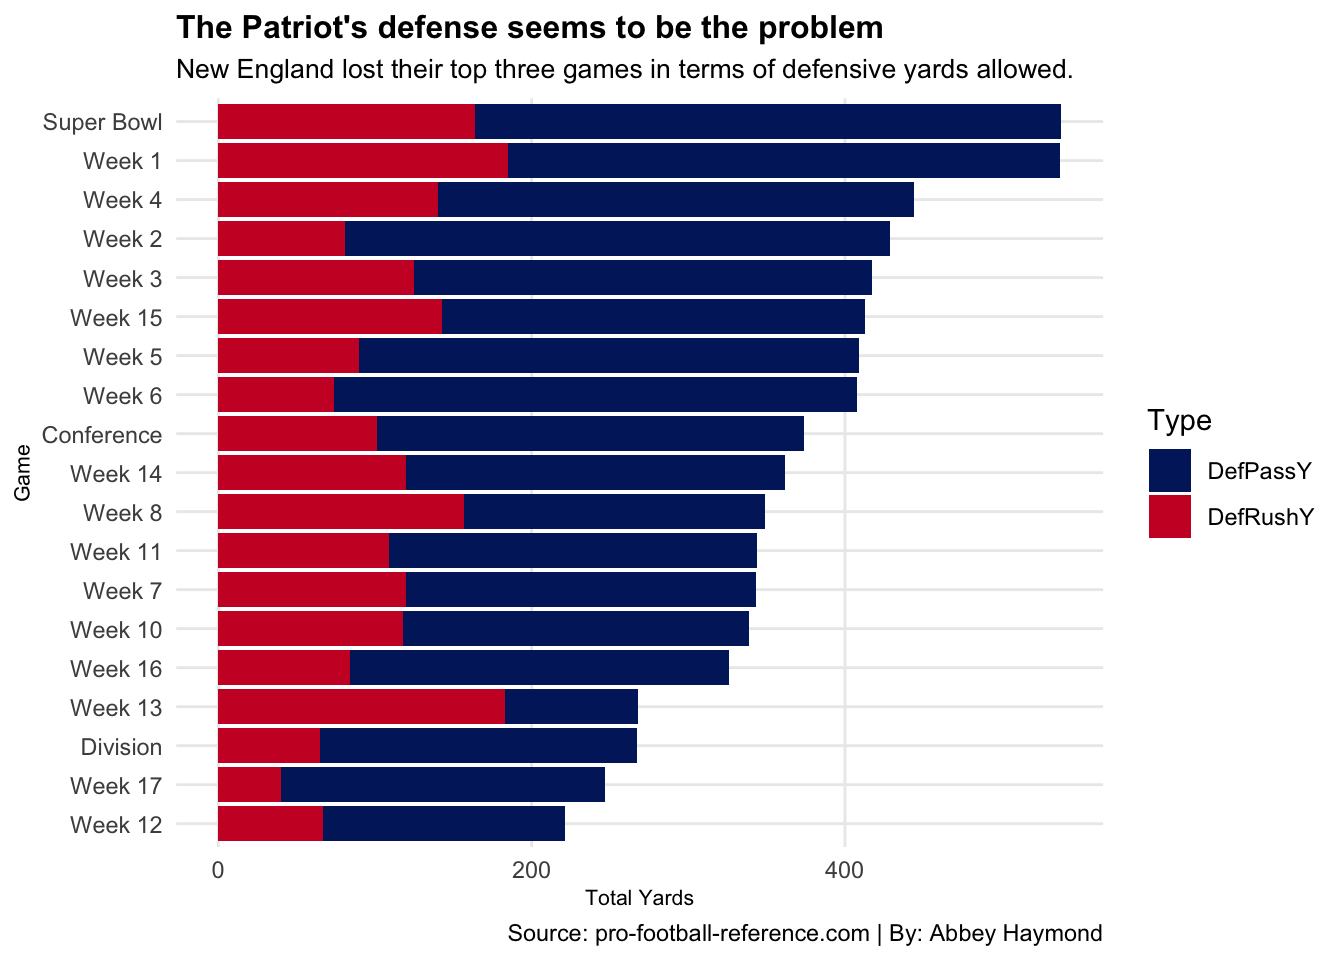
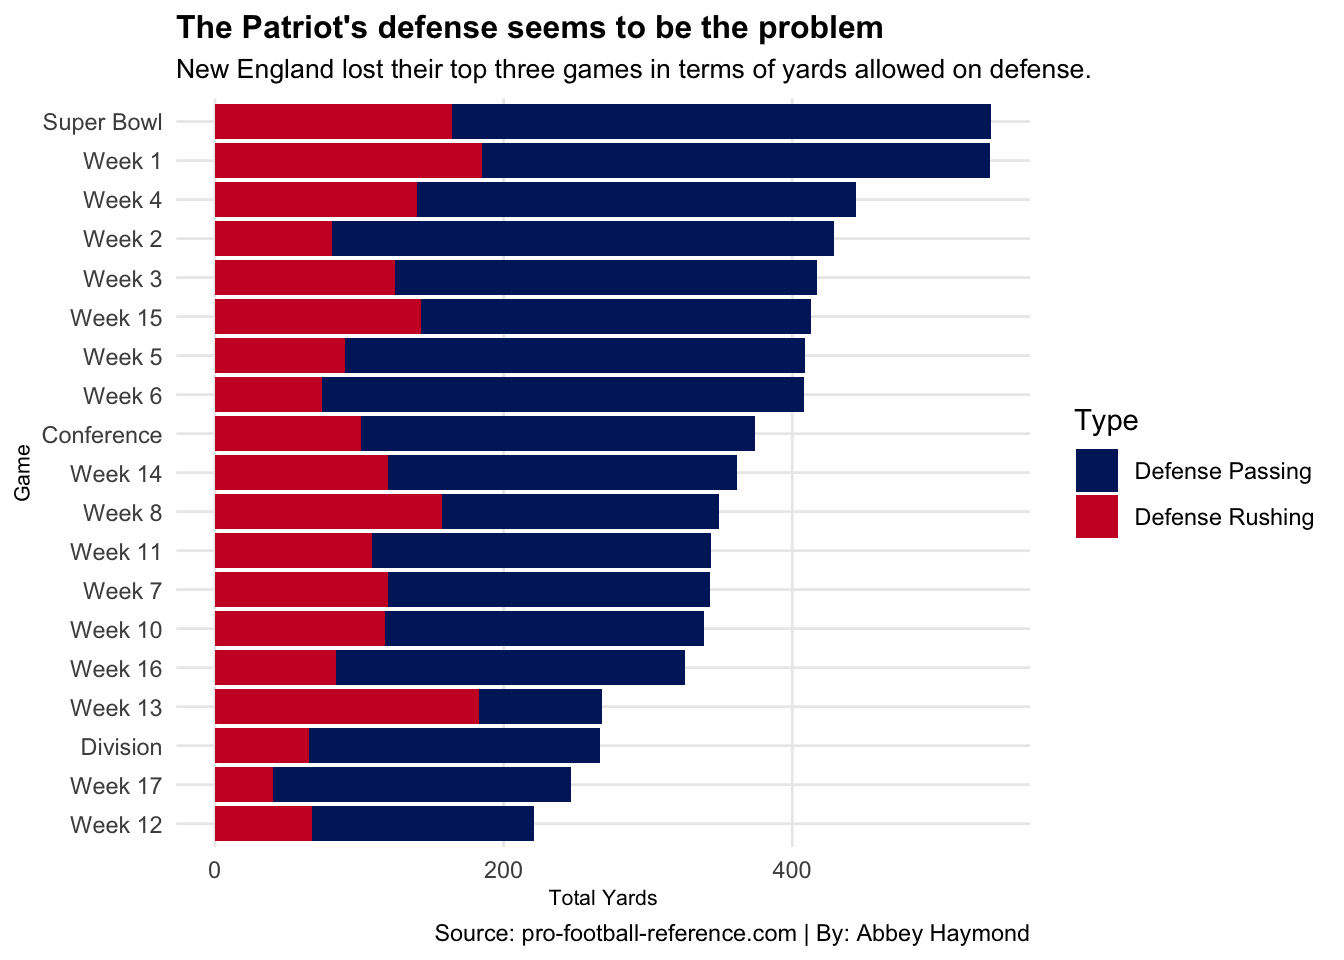
update

diff --git a/2021/04/02/patriots-in-super-bowl-2018/index.html b/2021/04/02/patriots-in-super-bowl-2018/index.html
@@ -81,11 +81,11 @@
 <p>The Patriots have been a powerhouse in the NFL for the past two decades. They have won six Super Bowl titles, and they looked like a team that was ready to claim another one during their 2017 season. Tom Brady had the most passing yards in a Super Bowl in 2018, so why was that not enough to lead his team to a victory?</p>
 <p>I took a look at their numbers on offense during the Super Bowl.</p>
 <pre class="r"><code>library(tidyverse)</code></pre>
-<pre><code>## ── Attaching packages ─────────────────────────────────────── tidyverse 1.3.0 ──</code></pre>
+<pre><code>## ── Attaching packages ─────────────────────────────────────── tidyverse 1.3.1 ──</code></pre>
 <pre><code>## ✓ ggplot2 3.3.3     ✓ purrr   0.3.4
-## ✓ tibble  3.0.5     ✓ dplyr   1.0.3
-## ✓ tidyr   1.1.2     ✓ stringr 1.4.0
-## ✓ readr   1.4.0     ✓ forcats 0.5.0</code></pre>
+## ✓ tibble  3.1.0     ✓ dplyr   1.0.5
+## ✓ tidyr   1.1.3     ✓ stringr 1.4.0
+## ✓ readr   1.4.0     ✓ forcats 0.5.1</code></pre>
 <pre><code>## ── Conflicts ────────────────────────────────────────── tidyverse_conflicts() ──
 ## x dplyr::filter() masks stats::filter()
 ## x dplyr::lag()    masks stats::lag()</code></pre>
@@ -111,8 +111,13 @@ library(kableExtra)</code></pre>
 ##   Result = col_character(),
 ##   SuperBowl = col_character()
 ## )</code></pre>
-<pre class="r"><code>yardsvsplays &lt;- sbLdrives %&gt;% group_by(SuperBowl) %&gt;% summarise(TotalYards = sum(Net_yds),TotalPlays = sum(Plays)) %&gt;% select(SuperBowl, TotalYards, TotalPlays)
-outlieryards &lt;- yardsvsplays %&gt;% filter(SuperBowl==&quot;Super Bowl 52&quot;)</code></pre>
+<pre class="r"><code>yardsvsplays &lt;- sbLdrives %&gt;%
+  group_by(SuperBowl) %&gt;%
+  summarise(TotalYards = sum(Net_yds),TotalPlays = sum(Plays)) %&gt;%
+  select(SuperBowl, TotalYards, TotalPlays)
+
+outlieryards &lt;- yardsvsplays %&gt;% 
+  filter(SuperBowl==&quot;Super Bowl 52&quot;)</code></pre>
 <p>I am taking a look at how the Patriots compared on offense to other Super Bowl losers from this century. I paid attention to all the teams’ yards from scrimmage and number of plays to see how much each one moved the ball during their Super Bowl appearance.</p>
 <p>I plotted each point based on total yards and plays. Then, I added the linear regression to visualize the relationship between those two variables and where each team falls on that model.</p>
 <pre class="r"><code>ggplot() + 
@@ -146,7 +151,10 @@ This chart shows that the 2017 Patriots are the furthest team away from the mode
 ##   Loser = col_character(),
 ##   SuperBowl = col_character()
 ## )</code></pre>
-<pre class="r"><code>outlierstats &lt;- sbstats %&gt;% filter(SuperBowl==&quot;Super Bowl 52&quot;) %&gt;% rename(Eagles = Winner, Patriots = Loser) %&gt;% group_by(Eagles, Patriots)</code></pre>
+<pre class="r"><code>outlierstats &lt;- sbstats %&gt;%
+  filter(SuperBowl==&quot;Super Bowl 52&quot;) %&gt;%
+  rename(Eagles = Winner, Patriots = Loser) %&gt;%
+  group_by(Eagles, Patriots)</code></pre>
 <p>I looked at the two teams’ performances in Super Bowl 52 and highlighted the areas that I found worthy of discussion.</p>
 <pre class="r"><code>outlierstats %&gt;% 
   select(&quot;Type&quot;,&quot;Eagles&quot;,&quot;Patriots&quot;) %&gt;%
@@ -325,10 +333,15 @@ Time of Possession
 ##   Opp = col_character()
 ## )
 ## ℹ Use `spec()` for the full column specifications.</code></pre>
-<pre class="r"><code>nedef &lt;- ne2017 %&gt;% pivot_longer(cols=c(&quot;DefRushY&quot;,&quot;DefPassY&quot;), names_to=&quot;Type&quot;, values_to=&quot;Yards&quot;)
-nedefchart &lt;- nedef %&gt;% filter(Week !=&quot;9&quot;)</code></pre>
+<pre class="r"><code>nedef &lt;- ne2017 %&gt;%
+  pivot_longer(cols=c(&quot;DefRushY&quot;,&quot;DefPassY&quot;), names_to=&quot;Type&quot;, values_to=&quot;Yards&quot;)
+
+nedefchart &lt;- nedef %&gt;%
+  filter(Week !=&quot;9&quot;)</code></pre>
 <p>I created a new file for the filtered data. Then, I renamed some of the data types to make it easier to read.</p>
-<pre class="r"><code>nedefchartclean &lt;- read_csv(&quot;~/Desktop/Sports Data/Project/nedefchartclean.csv&quot;)</code></pre>
+<pre class="r"><code>nedefchartclean &lt;- read_csv(&quot;~/Desktop/Sports Data/Project/nedefchartclean.csv&quot;) %&gt;%
+    mutate(Type = recode(Type, DefPassY = &quot;Defense Passing&quot;),
+           Type = recode(Type, DefRushY = &quot;Defense Rushing&quot;))</code></pre>
 <pre><code>## 
 ## ── Column specification ────────────────────────────────────────────────────────
 ## cols(
@@ -354,7 +367,7 @@ nedefchart &lt;- nedef %&gt;% filter(Week !=&quot;9&quot;)</code></pre>
     x=&quot;Game&quot;, 
     y=&quot;Total Yards&quot;, 
     title=&quot;The Patriot&#39;s defense seems to be the problem&quot;, 
-    subtitle=&quot;New England lost their top three games in terms of defensive yards allowed.&quot;, 
+    subtitle=&quot;New England lost their top three games in terms of yards allowed on defense.&quot;, 
     caption=&quot;Source: pro-football-reference.com | By: Abbey Haymond&quot;) +
   theme_minimal() + scale_fill_manual(values=c(&quot;#012169&quot;,&quot;#CC122C&quot;)) + 
   theme(
